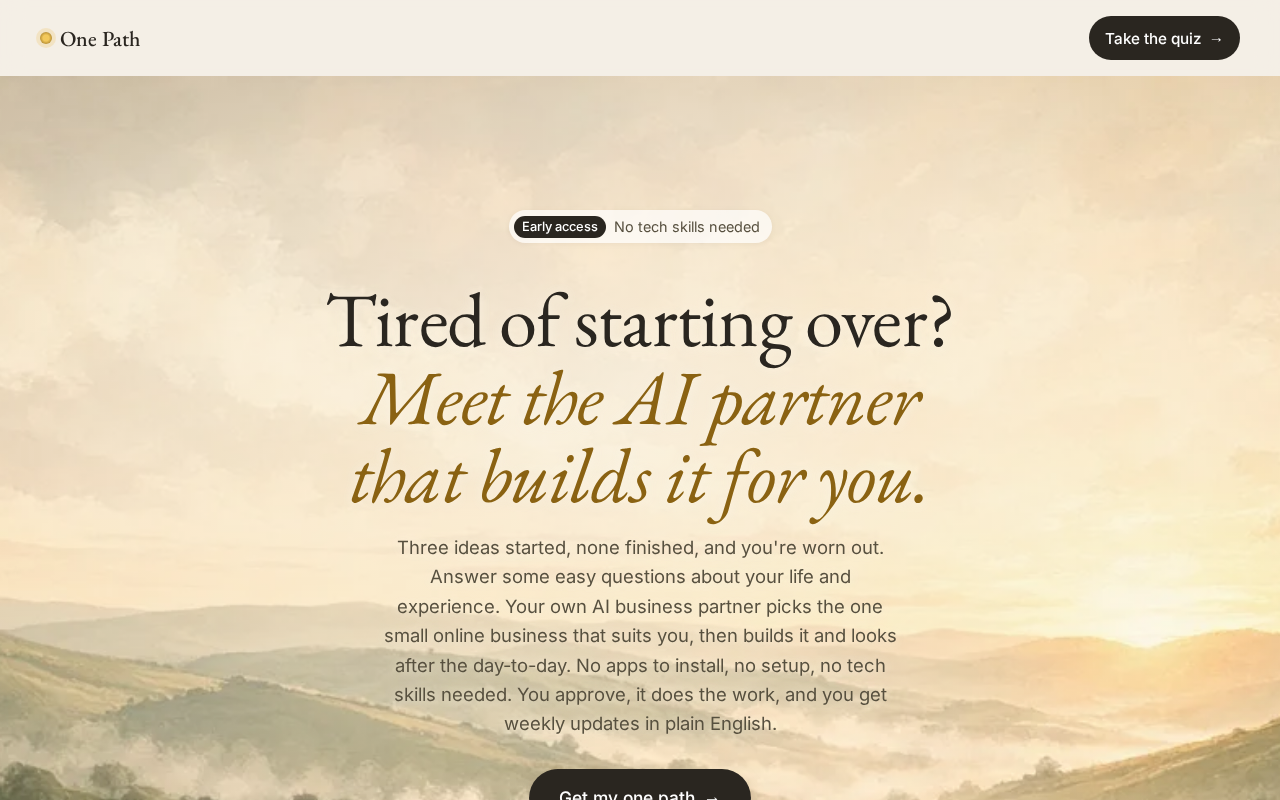
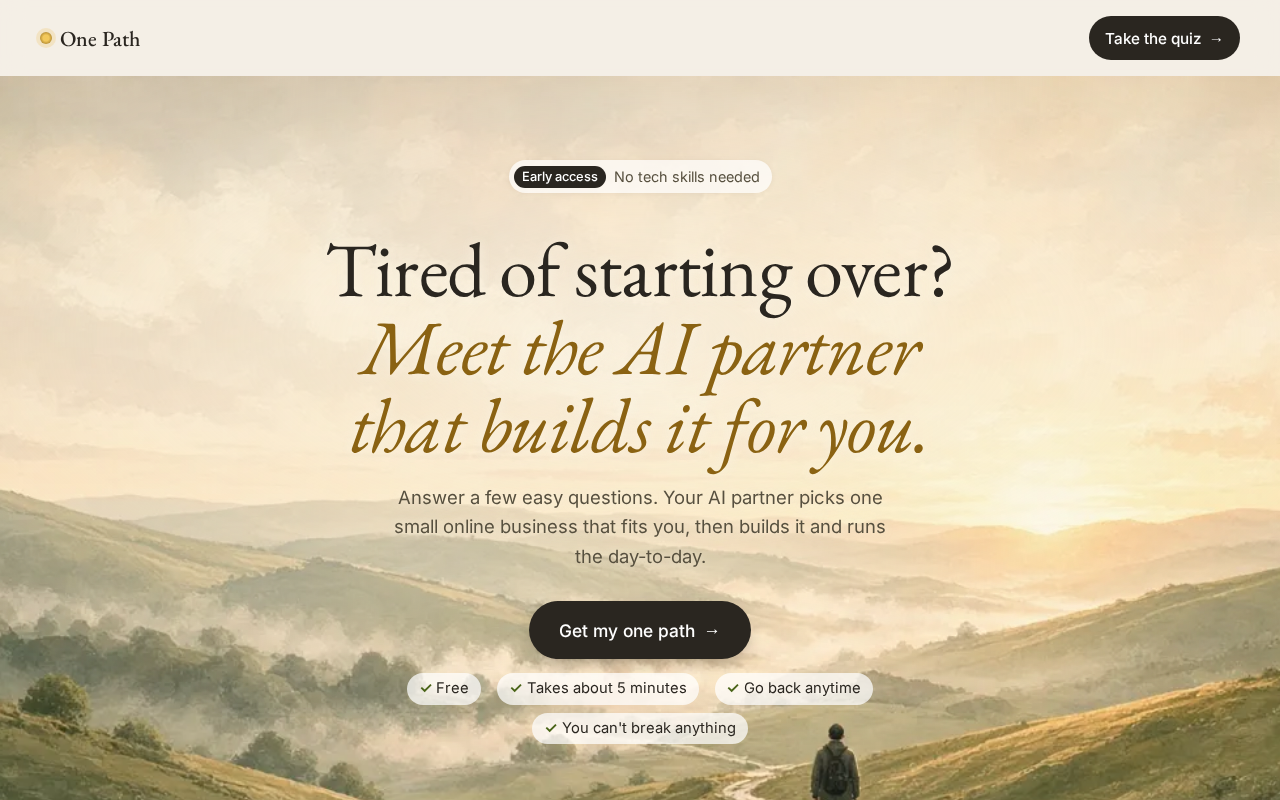
Shorter hero intro, walker visible above fold

diff --git a/index.html b/index.html
@@ -14,7 +14,7 @@
 <section class="hero"><picture class="heroimg" aria-hidden="true"><source media="(max-width:759px)" srcset="img/hero-tall.webp"><img src="img/hero-wide.webp" alt="" fetchpriority="high"></picture><div class="wrap fade">
   <p class="tag"><b>Early access</b> No tech skills needed</p>
   <h1>Tired of starting over?<br><em>Meet the AI partner that builds it for you.</em></h1>
-  <p class="sub">Three ideas started, none finished, and you're worn out. Answer some easy questions about your life and experience. Your own AI business partner picks the one small online business that suits you, then builds it and looks after the day-to-day. No apps to install, no setup, no tech skills needed. You approve, it does the work, and you get weekly updates in plain English.</p>
+  <p class="sub">Answer a few easy questions. Your AI partner picks one small online business that fits you, then builds it and runs the day-to-day.</p>
   <a href="#quiz" class="btn">Get my one path <span>→</span></a>
   <ul class="reassure"><li>Free</li><li>Takes about 5 minutes</li><li>Go back anytime</li><li>You can't break anything</li></ul>
 </div></section>

diff --git a/style.css b/style.css
@@ -118,3 +118,6 @@ footer{font-size:.9rem}.how p{font-size:1.02rem}
 .hero .reassure{color:var(--ink)}
 .hero .reassure li{background:rgba(255,255,255,.72);border-radius:999px;padding:4px 12px}
 @media(min-width:760px){.hero{padding:120px 0 42vh}.heroimg img{object-position:50% 80%}}
+
+@media(max-width:759px){.hero{min-height:calc(100svh - 72px);padding:28px 0 40vh}.hero h1{margin-bottom:12px}.hero .sub{margin-bottom:18px}.heroimg img{object-position:50% 100%}.hero .reassure{display:none}}
+@media(min-width:760px){.hero{min-height:calc(100vh - 60px);padding:70px 0 34vh}.heroimg img{object-position:50% 100%}}
